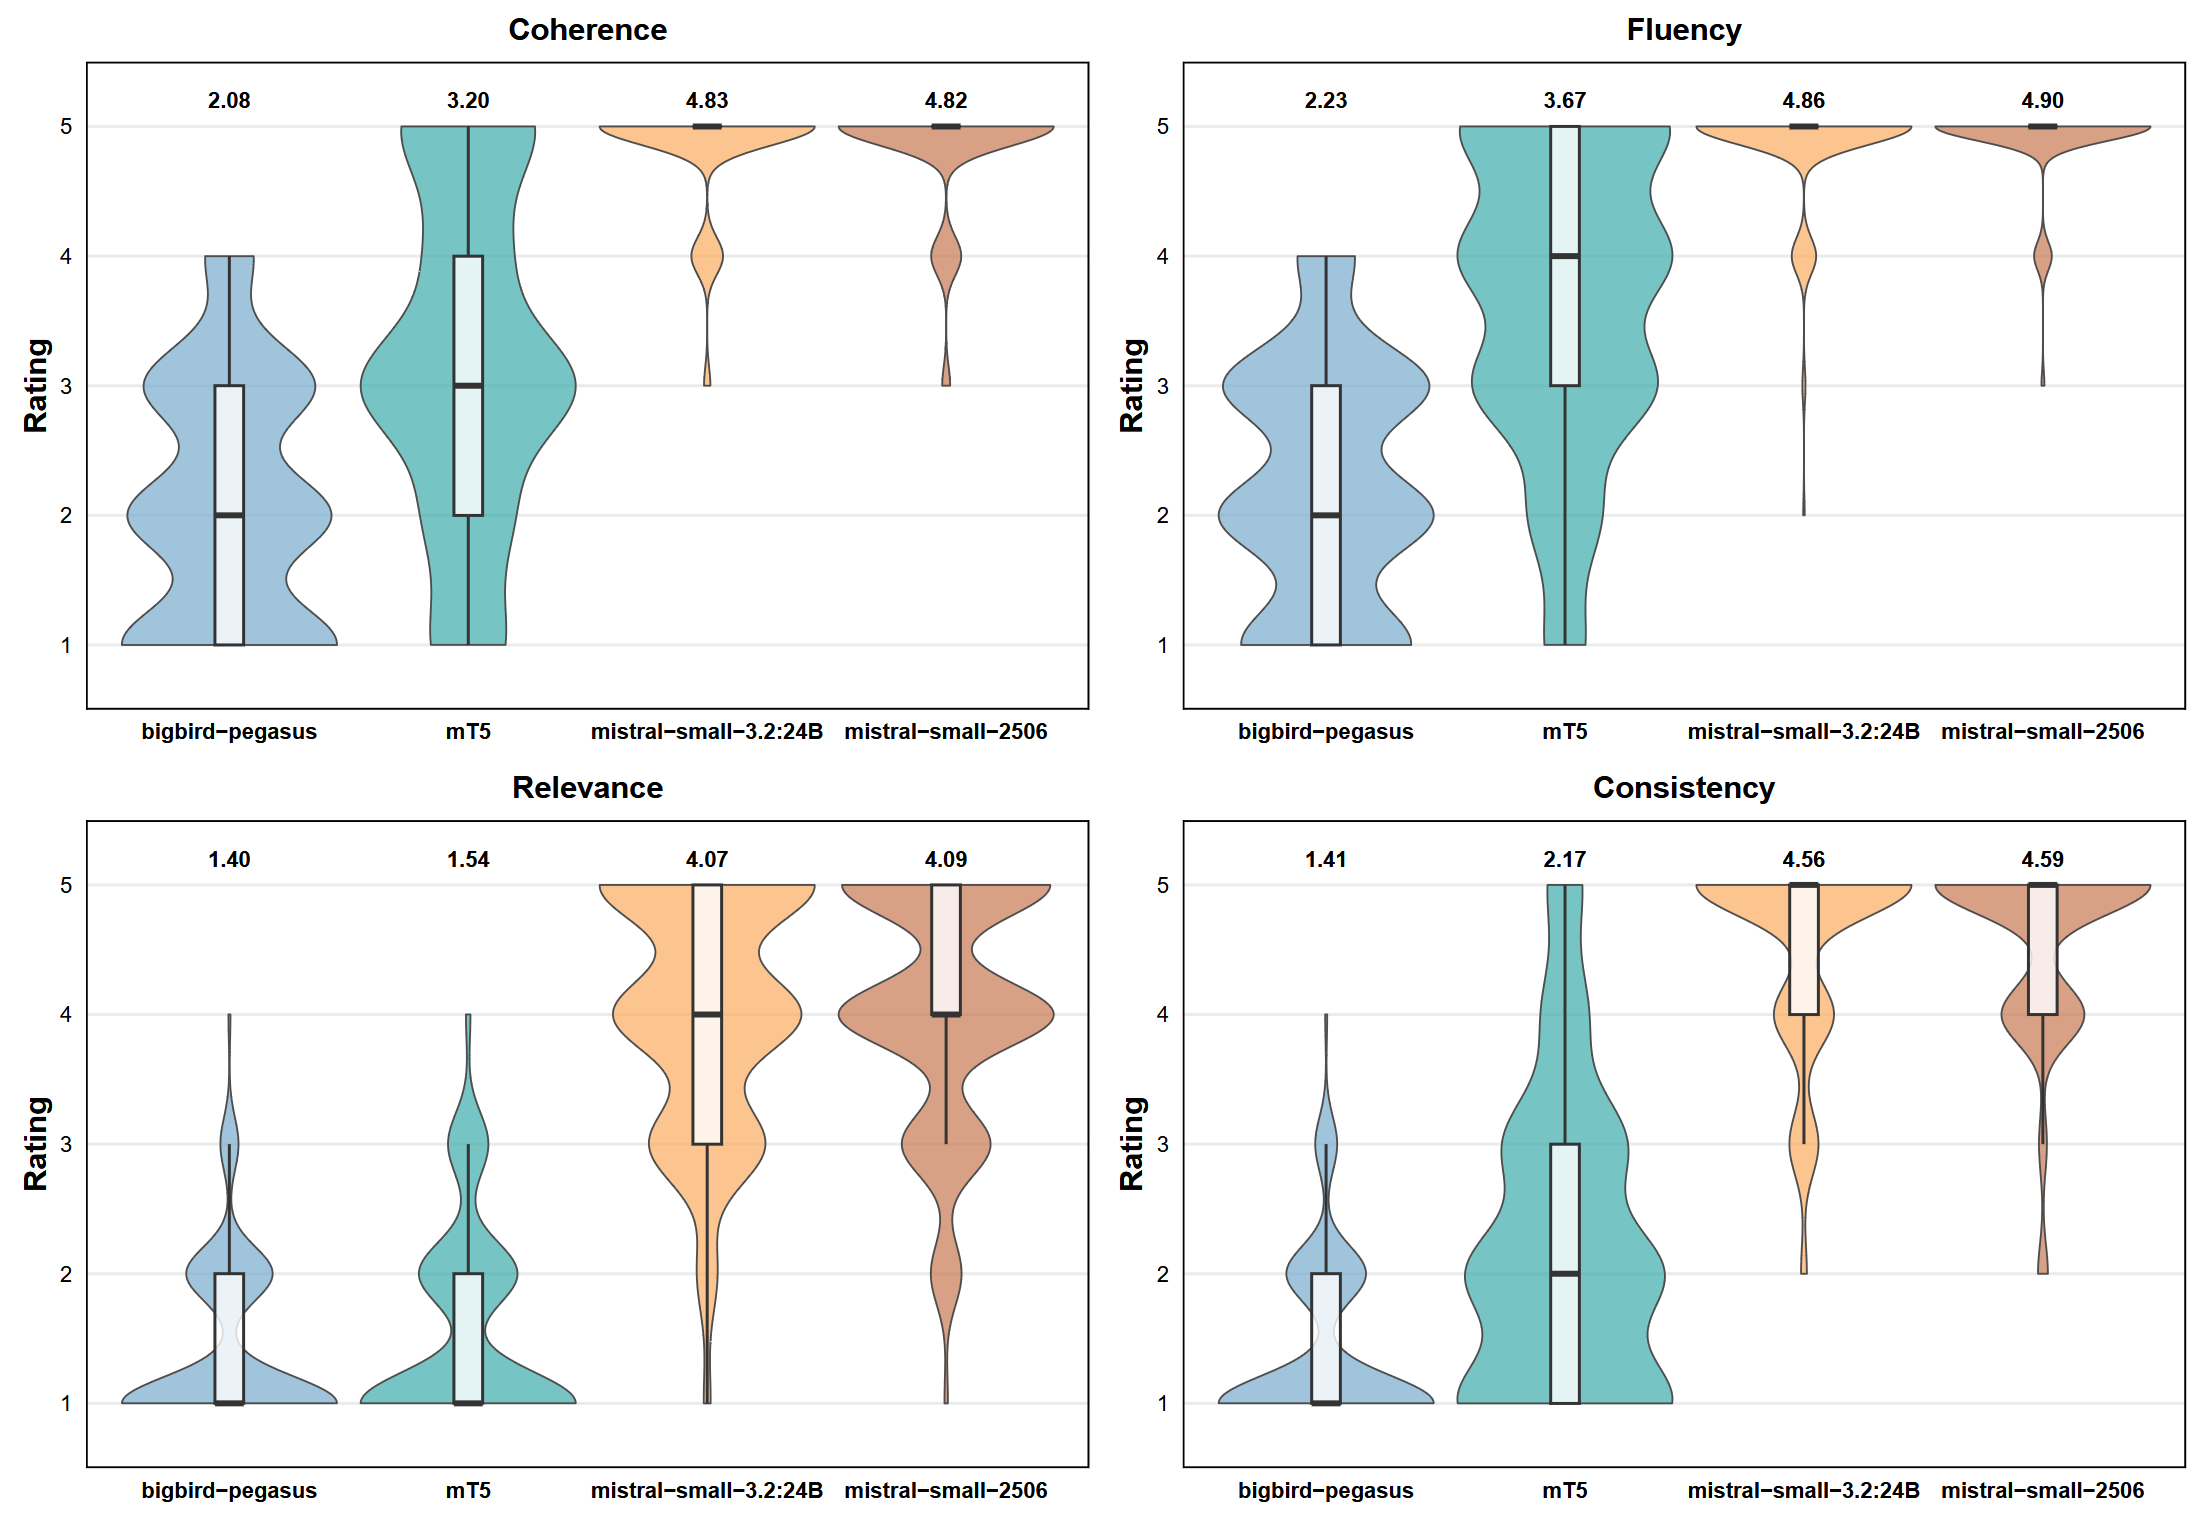
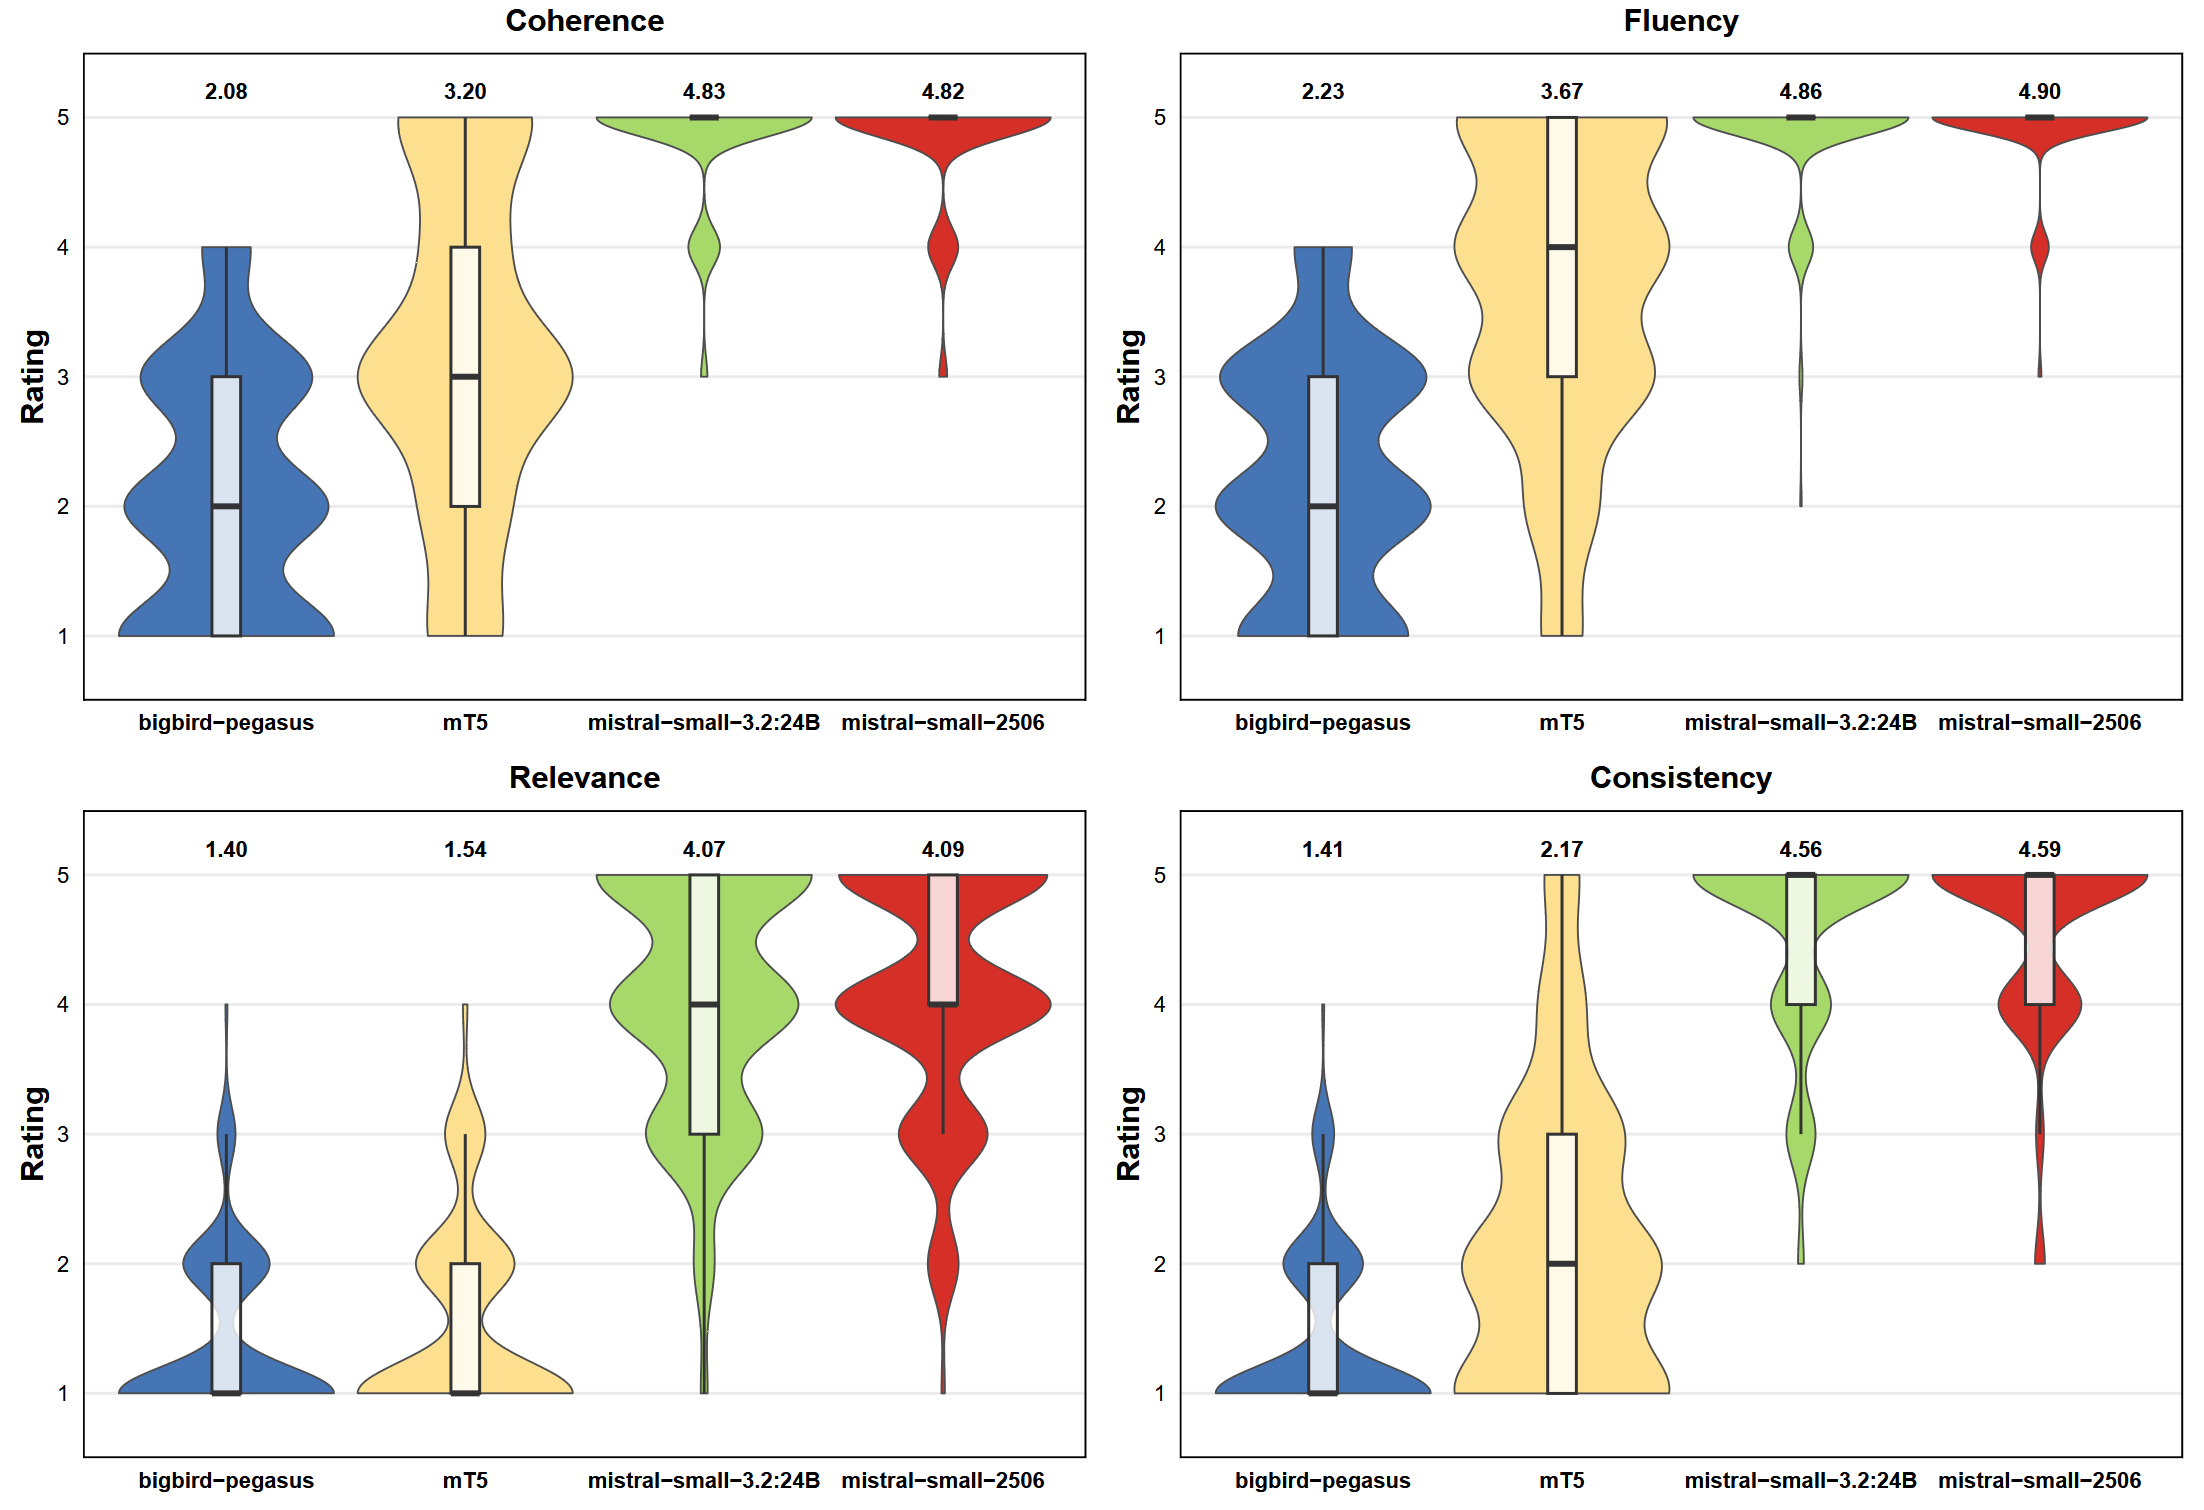
adjusted coloring and scaling of human evaluation (expert assessment) violin plot

diff --git a/manuscript/Sections/results.tex b/manuscript/Sections/results.tex
@@ -149,7 +149,7 @@ Inter-rater agreement was assessed using two complementary measures: Krippendorf
 
 \begin{figure*}[H]
 \centering
-\includegraphics[width=0.85\textwidth]{Visualizations/assessment_results.png}
+\includegraphics[width=0.95\textwidth]{Visualizations/assessment_results.png}
 \captionsetup{skip=6pt}
 \caption{
 \textbf{Expert assessment results across four quality dimensions:}
